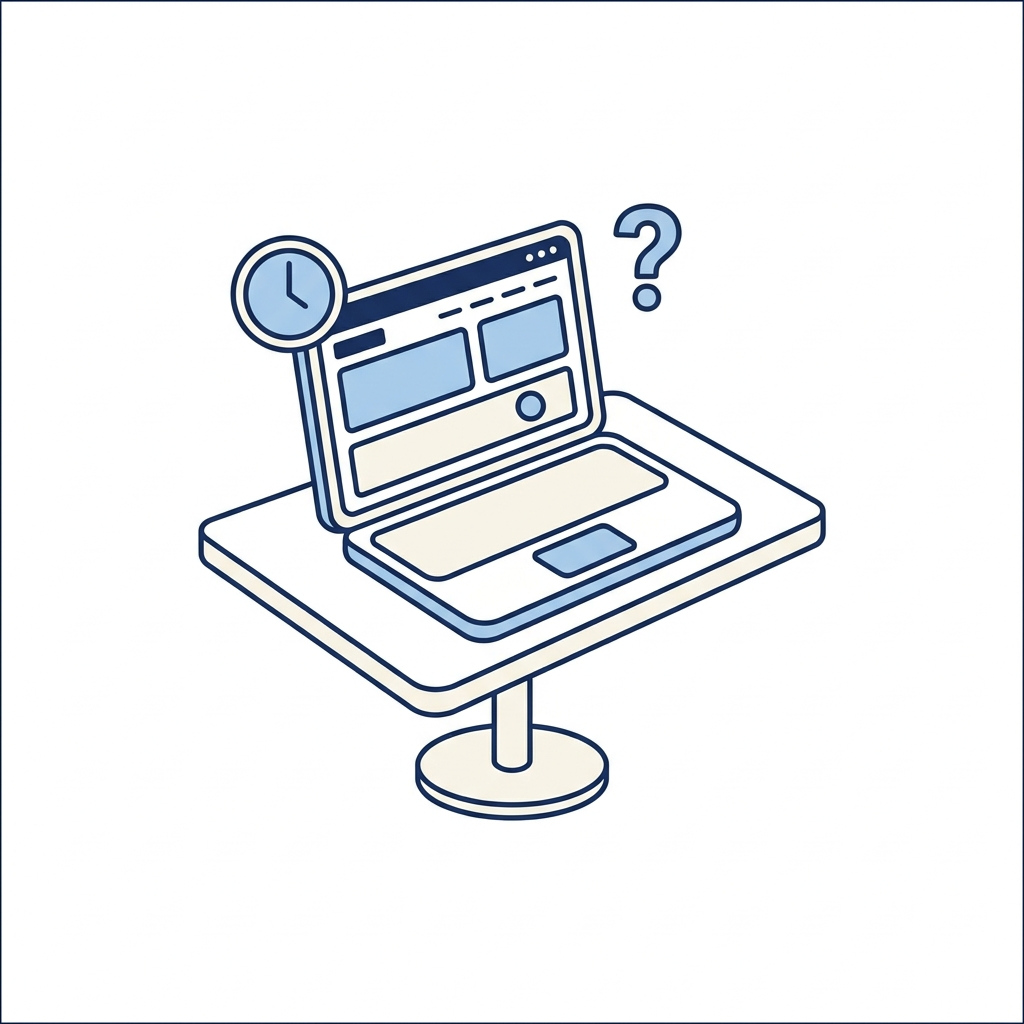
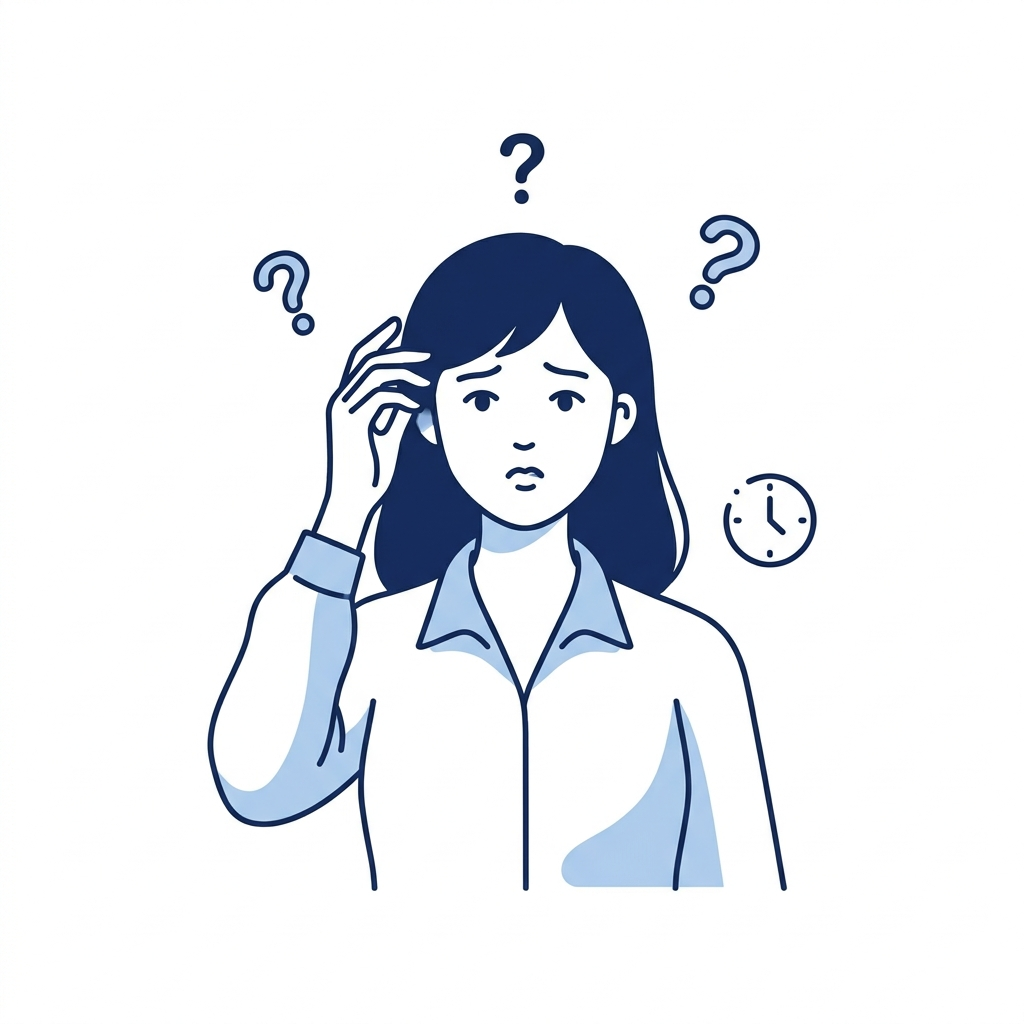
fix(site): regen pain-overwhelm illustration; restructure Plans pricing
- pain-overwhelm: regenerate via Nano Banana Pro with strict no-frame constraints; switch subject from laptop+desk (which had a literal stray rectangle) to a troubled woman with floating ?-marks and clock — better matches the title "何から手をつければいいのか分からず時間だけが過ぎていく"
- Plans: split conflated 月額/初期費用 into separate columns for subscription plans; oneTime plans show single 一括 price
- Plans: dual-display 通常価格(line-through) and 立ち上げ期価格(emphasized) with "立ち上げ期 40% OFF" badge per card
- Plans: add "FOUNDING PARTNERS / 立ち上げ期 先着3軒 限定 40% OFF" subhead under section title

diff --git a/app/page.tsx b/app/page.tsx
@@ -583,21 +583,51 @@ function FoundingOffer() {
 /* ──────────────────────────────────────────────
  * Plans — 3 cards, Standard featured (navy bg)
  * ────────────────────────────────────────────── */
+type PlanPricing =
+  | {
+      kind: "oneTime";
+      originalInitial: string;
+      currentInitial: string;
+    }
+  | {
+      kind: "subscription";
+      originalInitial: string;
+      originalMonthly: string;
+      currentInitial: string;
+      currentMonthly: string;
+    };
+
+type Plan = {
+  mark: string;
+  tagline: string;
+  pricing: PlanPricing;
+  features: string[];
+  featured: boolean;
+};
+
 function Plans() {
-  const plans = [
+  const plans: Plan[] = [
     {
       mark: "スタートプラン",
       tagline: "まずは小さく始めたい方へ",
-      price: "¥48,000",
-      priceNote: "一括(税抜)",
+      pricing: {
+        kind: "oneTime",
+        originalInitial: "¥80,000",
+        currentInitial: "¥48,000",
+      },
       features: ["LP 制作", "LINE 公式構築", "公開・基本設定", "修正2回まで"],
       featured: false,
     },
     {
       mark: "スタンダードプラン",
       tagline: "バランスよく成果を出したい方へ",
-      price: "¥78,000~",
-      priceNote: "初月(初期 ¥60,000 + 月 ¥18,000)",
+      pricing: {
+        kind: "subscription",
+        originalInitial: "¥100,000",
+        originalMonthly: "¥30,000",
+        currentInitial: "¥60,000",
+        currentMonthly: "¥18,000",
+      },
       features: [
         "LP 制作",
         "LINE 公式 構築 + 月次配信運用",
@@ -609,8 +639,13 @@ function Plans() {
     {
       mark: "プレミアムプラン",
       tagline: "本気で事業を伸ばしたい方へ",
-      price: "¥96,000~",
-      priceNote: "初月(初期 ¥60,000 + 月 ¥36,000)",
+      pricing: {
+        kind: "subscription",
+        originalInitial: "¥100,000",
+        originalMonthly: "¥60,000",
+        currentInitial: "¥60,000",
+        currentMonthly: "¥36,000",
+      },
       features: [
         "LP / LINE / MEO 一括",
         "LINE + MEO + SNS 月次運用",
@@ -628,6 +663,9 @@ function Plans() {
           <h2 className="text-[26px] font-bold leading-[1.3] tracking-tight text-fg md:text-[36px] lg:text-[40px]">
             料金プラン
           </h2>
+          <p className="mt-4 text-[12px] font-medium tracking-[0.12em] text-accent md:text-[13px]">
+            FOUNDING PARTNERS / 立ち上げ期 先着3軒 限定 40% OFF
+          </p>
         </div>
 
         <div className="mt-14 grid gap-6 md:grid-cols-3">
@@ -655,17 +693,7 @@ function Plans() {
                 </p>
               </div>
 
-              <div className={`text-center border-y py-5 ${p.featured ? "border-bg/15" : "border-line"}`}>
-                <p className={`text-[12px] font-medium ${p.featured ? "text-bg/85" : "text-fg-mute"}`}>
-                  月額
-                </p>
-                <p className={`mt-1 text-[36px] font-bold leading-none tracking-tight md:text-[42px] ${p.featured ? "text-bg" : "text-fg"}`}>
-                  {p.price}
-                </p>
-                <p className={`mt-2 text-[10px] md:text-[11px] ${p.featured ? "text-bg/65" : "text-fg-mute"}`}>
-                  {p.priceNote}
-                </p>
-              </div>
+              <PlanPriceBlock pricing={p.pricing} featured={p.featured} />
 
               <ul className="flex-1 space-y-2 text-[13px] md:text-[14px]">
                 {p.features.map((f) => (
@@ -686,10 +714,73 @@ function Plans() {
         </div>
 
         <p className="mt-8 text-center text-[11px] text-fg-mute md:text-[12px]">
-          ※ 料金はすべて税抜表示。ご予算やご希望に合わせてカスタマイズも可能です。
+          ※ 料金はすべて税抜表示。立ち上げ期価格は先着3軒限定。ご予算やご希望に合わせてカスタマイズも可能です。
         </p>
       </div>
     </section>
+  );
+}
+
+function PlanPriceBlock({ pricing, featured }: { pricing: PlanPricing; featured: boolean }) {
+  const borderCls = featured ? "border-bg/15" : "border-line";
+  const labelCls = featured ? "text-bg/85" : "text-fg-mute";
+  const subLabelCls = featured ? "text-bg/65" : "text-fg-mute";
+  const originalCls = featured ? "text-bg/55" : "text-fg-mute";
+  const currentCls = featured ? "text-bg" : "text-fg";
+  const accentBadgeCls = featured
+    ? "bg-bg/15 text-bg"
+    : "bg-accent text-bg";
+
+  if (pricing.kind === "oneTime") {
+    return (
+      <div className={`text-center border-y py-5 ${borderCls}`}>
+        <p className={`text-[11px] font-medium tracking-[0.08em] ${labelCls}`}>
+          一括(税抜)
+        </p>
+        <p className={`mt-2 text-[12px] line-through ${originalCls}`}>
+          通常 {pricing.originalInitial}
+        </p>
+        <div className="mt-1 flex items-baseline justify-center gap-2">
+          <p className={`text-[36px] font-bold leading-none tracking-tight md:text-[42px] ${currentCls}`}>
+            {pricing.currentInitial}
+          </p>
+        </div>
+        <p className={`mt-2 inline-flex items-center px-2 py-0.5 text-[10px] font-bold tracking-[0.08em] ${accentBadgeCls}`}>
+          立ち上げ期 40% OFF
+        </p>
+      </div>
+    );
+  }
+
+  return (
+    <div className={`border-y py-5 ${borderCls}`}>
+      <div className="grid grid-cols-2 divide-x divide-current/10">
+        <div className="px-2 text-center">
+          <p className={`text-[11px] font-medium tracking-[0.08em] ${labelCls}`}>初期費用</p>
+          <p className={`mt-1.5 text-[11px] line-through ${originalCls}`}>
+            {pricing.originalInitial}
+          </p>
+          <p className={`mt-0.5 text-[24px] font-bold leading-none tracking-tight md:text-[26px] ${currentCls}`}>
+            {pricing.currentInitial}
+          </p>
+        </div>
+        <div className="px-2 text-center">
+          <p className={`text-[11px] font-medium tracking-[0.08em] ${labelCls}`}>月額</p>
+          <p className={`mt-1.5 text-[11px] line-through ${originalCls}`}>
+            {pricing.originalMonthly}
+          </p>
+          <p className={`mt-0.5 text-[24px] font-bold leading-none tracking-tight md:text-[26px] ${currentCls}`}>
+            {pricing.currentMonthly}
+          </p>
+        </div>
+      </div>
+      <div className="mt-3 text-center">
+        <p className={`inline-flex items-center px-2 py-0.5 text-[10px] font-bold tracking-[0.08em] ${accentBadgeCls}`}>
+          立ち上げ期 40% OFF
+        </p>
+        <p className={`mt-2 text-[10px] ${subLabelCls}`}>(税抜 / 月額は2ヶ月目以降)</p>
+      </div>
+    </div>
   );
 }
 

diff --git a/scripts/regenerate-pain-overwhelm.ts b/scripts/regenerate-pain-overwhelm.ts
@@ -1,0 +1,91 @@
+/**
+ * regenerate-pain-overwhelm.ts
+ *
+ * Regenerate ONLY pain-overwhelm.png with a subject that matches the
+ * title "何から手をつければいいのか分からず時間だけが過ぎていく",
+ * and NO rectangular frame around the composition.
+ */
+import { writeFileSync, existsSync, readFileSync, mkdirSync } from "node:fs";
+import { resolve, dirname } from "node:path";
+
+const ROOT = resolve(__dirname, "..");
+const OUT_PATH = resolve(ROOT, "public/lp/pain-overwhelm.png");
+
+const envPath = resolve(ROOT, ".env.local");
+if (existsSync(envPath)) {
+  const content = readFileSync(envPath, "utf8");
+  content.split("\n").forEach((line) => {
+    const trimmed = line.trim();
+    if (!trimmed || trimmed.startsWith("#")) return;
+    const eq = trimmed.indexOf("=");
+    if (eq < 0) return;
+    const key = trimmed.slice(0, eq).trim();
+    const value = trimmed.slice(eq + 1).trim();
+    if (!process.env[key]) process.env[key] = value;
+  });
+}
+
+const API_KEY = process.env.GEMINI_API_KEY;
+if (!API_KEY) {
+  console.error("Missing GEMINI_API_KEY");
+  process.exit(1);
+}
+
+const MODEL = "gemini-3-pro-image-preview";
+
+const STYLE =
+  "Professional vector line-art illustration in the style of Storyset Premium / Linkedfin / Iconscout. Deep navy blue (#1A2F5E) outlines, generous white/cream fills, subtle light blue (#A8C5E5) accent fills on key shapes. Clean even line weight (medium thickness). Friendly, approachable Japanese business style. Pure white background. Square 1:1 composition with centered isolated subject and generous negative space. NO text, NO emoji, NO realistic photography, NO gradient meshes. Smooth shapes, slightly rounded, modern.";
+
+const PROMPT = `${STYLE}
+
+CRITICAL CONSTRAINTS — DO NOT VIOLATE:
+- DO NOT draw any rectangle, square, frame, border, outline, or boundary box around the illustration.
+- DO NOT draw any enclosing shape that surrounds the subject.
+- DO NOT draw a card, panel, picture-frame, or photo-frame containing the illustration.
+- DO NOT draw a desk surface, table edge, ground line, floor, wall, or background panel.
+- The subject MUST float in pure unbounded white space with absolutely NOTHING around it except small floating accent icons.
+- The four edges of the canvas must be plain empty white pixels — no line, no stroke, no shadow, no fill near the edges.
+
+Subject: A young Japanese woman shown from the chest up, facing forward. She has medium-length black hair and wears a simple pale blue blouse. Her expression is troubled and overwhelmed — eyebrows slightly raised in confusion, mouth in a small uncertain line, one hand raised near her temple as if thinking "where do I even start?". Around her head, three small floating question-mark icons (one upper-left, one upper-right, one slightly above her head) drawn as simple line-art "?" marks in navy. A tiny floating clock icon near one shoulder to suggest "time is passing". She floats freely with empty white space all around her — NO frame, NO border, NO desk, NO surroundings of any kind. Convey: "she doesn't know what to tackle first and time keeps slipping by". Navy outlines, soft light-blue accent on her blouse, clean Storyset-style premium illustration.`;
+
+async function generateImage(): Promise<Buffer | null> {
+  const url = `https://generativelanguage.googleapis.com/v1beta/models/${MODEL}:generateContent?key=${API_KEY}`;
+  const body = {
+    contents: [{ role: "user", parts: [{ text: PROMPT }] }],
+    generationConfig: { responseModalities: ["IMAGE"] },
+  };
+  const res = await fetch(url, {
+    method: "POST",
+    headers: { "Content-Type": "application/json" },
+    body: JSON.stringify(body),
+  });
+  if (!res.ok) {
+    const text = await res.text();
+    console.error(`HTTP ${res.status}: ${text.slice(0, 400)}`);
+    return null;
+  }
+  const data: any = await res.json();
+  const parts = data?.candidates?.[0]?.content?.parts ?? [];
+  for (const p of parts) {
+    if (p?.inlineData?.data) return Buffer.from(p.inlineData.data, "base64");
+  }
+  console.error("no image part in response");
+  return null;
+}
+
+async function main() {
+  console.log(`▸ regenerating pain-overwhelm.png with model ${MODEL}`);
+  const buf = await generateImage();
+  if (!buf) {
+    console.error("✗ generation failed");
+    process.exit(1);
+  }
+  mkdirSync(dirname(OUT_PATH), { recursive: true });
+  writeFileSync(OUT_PATH, buf);
+  console.log(`✓ saved ${OUT_PATH} (${(buf.length / 1024).toFixed(0)} KB)`);
+}
+
+main().catch((e) => {
+  console.error(e);
+  process.exit(1);
+});
